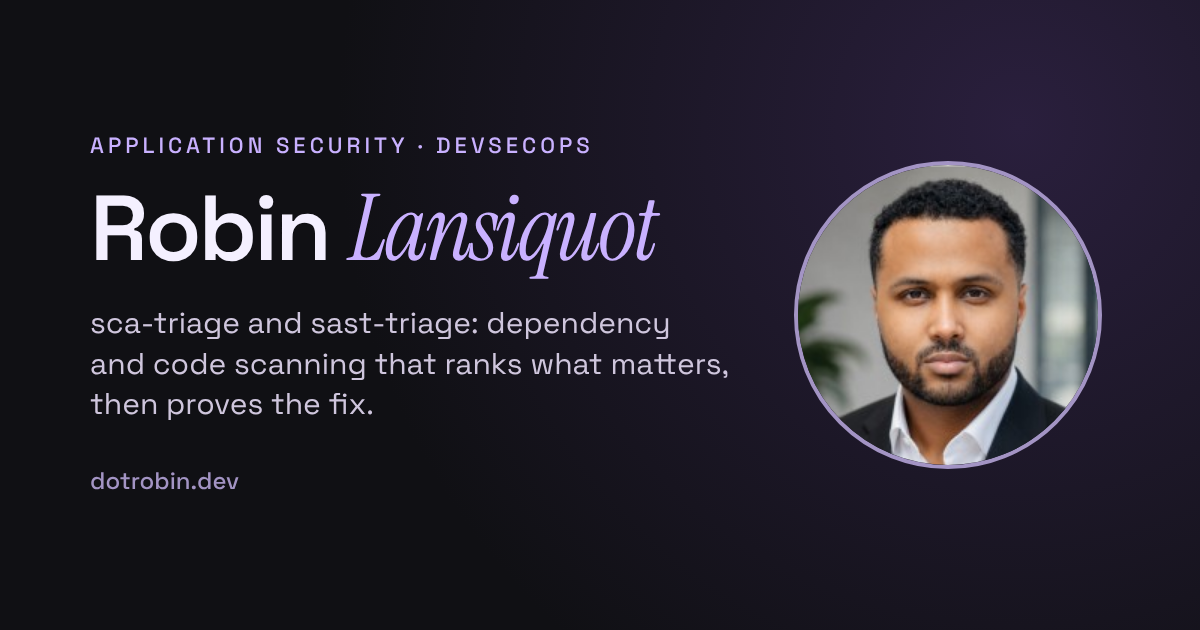
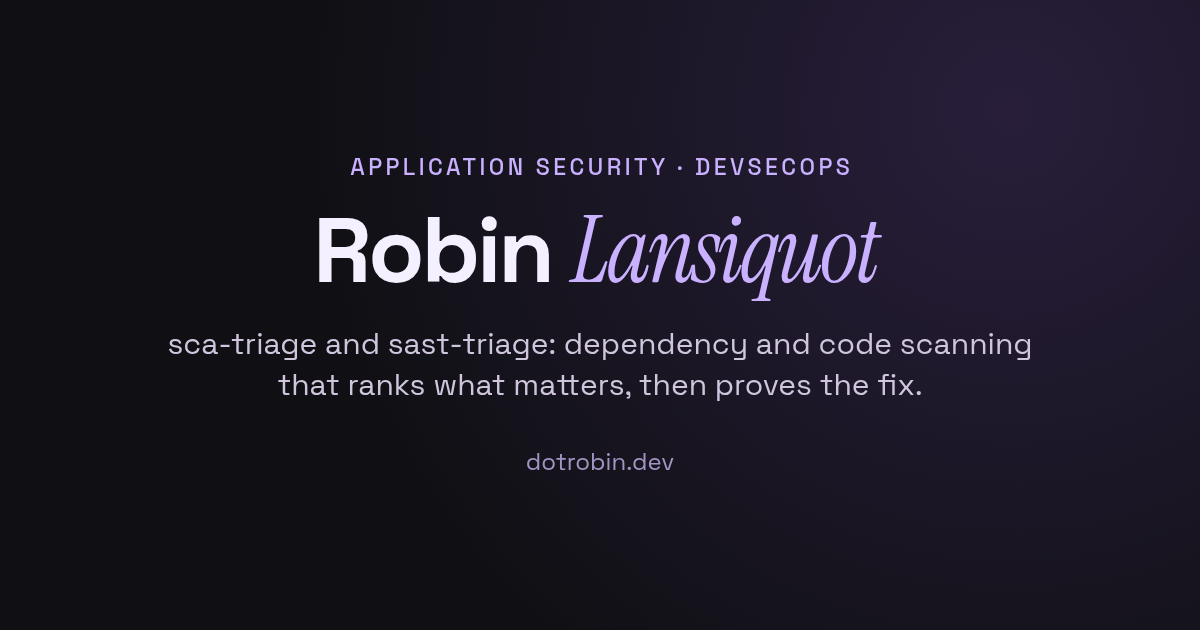
site: remove the portrait and center the homepage hero [W-dotrobin-dev-9] (#22)
Robin's request: remove his photo and center the homepage intro. Removes the portrait image, its CSS and robin-portrait.webp; centers the hero at every width; re-renders og-image.png without the portrait. QA PASS (thr_zs5zvjhs29) at 89bb860; tree equals QA's trial merge with main.

diff --git a/site/index.html b/site/index.html
@@ -1,1 +1,1 @@
-<!doctype html><html lang="en"><head><meta charset="utf-8"><meta http-equiv="Content-Security-Policy" content="default-src 'self'; script-src 'self'; style-src 'self'; img-src 'self'; font-src 'self'; connect-src 'self'; object-src 'none'; base-uri 'self'; form-action 'none'; upgrade-insecure-requests"><link rel="canonical" href="https://dotrobin.dev/"><meta name="viewport" content="width=device-width,initial-scale=1"><meta name="description" content="Robin Lansiquot, application security and DevSecOps engineer. SCA and SAST triage tools that run in CI/CD, plus hands-on security lab writeups."><meta name="theme-color" content="#101014"><link rel="icon" href="/favicon.ico?v=snowflake-1" sizes="any"><link rel="icon" type="image/svg+xml" href="/favicon.svg?v=snowflake-1"><link rel="preload" href="fonts/space-grotesk-variable.woff2" as="font" type="font/woff2" crossorigin><link rel="preload" href="fonts/instrument-serif-italic.woff2" as="font" type="font/woff2" crossorigin><title>Robin Lansiquot · Application Security &amp; DevSecOps · dotrobin</title><meta property="og:type" content="website"><meta property="og:site_name" content="dotrobin.dev"><meta property="og:title" content="Robin Lansiquot · Application Security &amp; DevSecOps"><meta property="og:description" content="Robin Lansiquot, application security and DevSecOps engineer. SCA and SAST triage tools that run in CI/CD, plus hands-on security lab writeups."><meta property="og:url" content="https://dotrobin.dev/"><meta property="og:image" content="https://dotrobin.dev/og-image.png"><meta property="og:image:width" content="1200"><meta property="og:image:height" content="630"><meta property="og:image:alt" content="Robin Lansiquot, application security portfolio"><meta name="twitter:card" content="summary_large_image"><link rel="stylesheet" href="portfolio.css?v=intro-order-1"><link rel="stylesheet" href="cipher-silk.css?v=nav-1"><script src="cipher-silk.js?v=motion-opt-in-1" defer></script><script src="section-order.js?v=1" defer></script><link rel="stylesheet" href="collection.css?v=design-3"><link rel="stylesheet" href="contact.css?v=1"><script src="contact.js?v=2" defer></script></head><body class="homepage"><a class="skip" href="#main">Skip to content</a><header class="top top-with-network"><a class="brand" href="index.html">dotrobin<span>_</span></a><figure class="cipher-silk" aria-label="Abstract interwoven ribbon artwork"><div class="silk-stage"><canvas id="silk-canvas" role="img" aria-label="Interwoven luminous ribbons with slowly transforming geometric glyphs. Abstract artwork."></canvas><svg class="silk-fallback" viewBox="0 0 1000 100" preserveAspectRatio="none" role="img" aria-label="Interwoven violet and amber ribbons"><defs><linearGradient id="silk-gradient"><stop stop-color="#baa0ff" stop-opacity=".1"/><stop offset=".5" stop-color="#d4b7ff"/><stop offset="1" stop-color="#baa0ff" stop-opacity=".1"/></linearGradient></defs><g fill="none" stroke="url(#silk-gradient)" stroke-width=".7"><path d="M0 42.8 C120 42.8 120 2.8 250 17.8 S370 77.8 500 42.8 S630 2.8 750 22.8 S880 62.8 1000 42.8"/><path d="M0 57.2 C120 57.2 120 92.2 250 77.2 S370 17.2 500 57.2 S630 92.2 750 77.2 S880 37.2 1000 57.2"/><path d="M0 44.6 C120 44.6 120 4.6 250 19.6 S370 79.6 500 44.6 S630 4.6 750 24.6 S880 64.6 1000 44.6"/><path d="M0 55.4 C120 55.4 120 90.4 250 75.4 S370 15.4 500 55.4 S630 90.4 750 75.4 S880 35.4 1000 55.4"/><path d="M0 46.4 C120 46.4 120 6.4 250 21.4 S370 81.4 500 46.4 S630 6.4 750 26.4 S880 66.4 1000 46.4"/><path d="M0 53.6 C120 53.6 120 88.6 250 73.6 S370 13.6 500 53.6 S630 88.6 750 73.6 S880 33.6 1000 53.6"/><path d="M0 48.2 C120 48.2 120 8.2 250 23.2 S370 83.2 500 48.2 S630 8.2 750 28.2 S880 68.2 1000 48.2"/><path d="M0 51.8 C120 51.8 120 86.8 250 71.8 S370 11.8 500 51.8 S630 86.8 750 71.8 S880 31.8 1000 51.8"/><path d="M0 50.0 C120 50.0 120 10.0 250 25.0 S370 85.0 500 50.0 S630 10.0 750 30.0 S880 70.0 1000 50.0"/><path d="M0 50.0 C120 50.0 120 85.0 250 70.0 S370 10.0 500 50.0 S630 85.0 750 70.0 S880 30.0 1000 50.0"/><path d="M0 51.8 C120 51.8 120 11.8 250 26.8 S370 86.8 500 51.8 S630 11.8 750 31.8 S880 71.8 1000 51.8"/><path d="M0 48.2 C120 48.2 120 83.2 250 68.2 S370 8.2 500 48.2 S630 83.2 750 68.2 S880 28.2 1000 48.2"/><path d="M0 53.6 C120 53.6 120 13.6 250 28.6 S370 88.6 500 53.6 S630 13.6 750 33.6 S880 73.6 1000 53.6"/><path d="M0 46.4 C120 46.4 120 81.4 250 66.4 S370 6.4 500 46.4 S630 81.4 750 66.4 S880 26.4 1000 46.4"/><path d="M0 55.4 C120 55.4 120 15.4 250 30.4 S370 90.4 500 55.4 S630 15.4 750 35.4 S880 75.4 1000 55.4"/><path d="M0 44.6 C120 44.6 120 79.6 250 64.6 S370 4.6 500 44.6 S630 79.6 750 64.6 S880 24.6 1000 44.6"/><path d="M0 57.2 C120 57.2 120 17.2 250 32.2 S370 92.2 500 57.2 S630 17.2 750 37.2 S880 77.2 1000 57.2"/><path d="M0 42.8 C120 42.8 120 77.8 250 62.8 S370 2.8 500 42.8 S630 77.8 750 62.8 S880 22.8 1000 42.8"/></g><path d="M0 50 C150 50 160 15 300 36 S430 80 560 52 S740 20 850 45 S950 50 1000 50" fill="none" stroke="#dfa87488" stroke-width="1"/></svg></div><button id="silk-toggle" class="silk-toggle" type="button" aria-label="Pause animation" title="Pause animation" hidden>Ⅱ</button></figure><nav class="site-nav" aria-label="Main"><a href="index.html#projects">Projects</a><a href="index.html#writeups">Writeups</a><a href="Robin_Lansiquot_Resume.pdf" target="_blank" rel="noopener">Résumé</a><a href="#contact">Contact</a></nav></header><div class="shell"><main id="main" tabindex="-1"><div class="content "><header class="profile-intro"><div class="eyebrow">APPLICATION SECURITY · DEVSECOPS</div><h1>Robin <em class="name-accent">Lansiquot</em></h1><div class="profile-contact"><div class="k">GET IN TOUCH</div><a href="mailto:lansiquo@gmail.com"><svg viewBox="0 0 24 24" fill="none" stroke="currentColor" stroke-width="1.7" aria-hidden="true"><rect x="3" y="5" width="18" height="14" rx="2"/><path d="m3 7 9 6 9-6"/></svg><span>Email</span><i aria-hidden="true">↗</i></a><a href="https://www.linkedin.com/in/robin-lansiquot/" target="_blank" rel="noopener"><svg viewBox="0 0 24 24" fill="currentColor" aria-hidden="true"><path d="M4.98 3.5a2.5 2.5 0 1 1 0 5 2.5 2.5 0 0 1 0-5ZM3 9.5h4V21H3V9.5Zm7 0h3.8v1.6h.1c.5-1 1.8-2 3.8-2 4 0 4.8 2.6 4.8 6V21h-4v-5.1c0-1.2 0-2.8-1.7-2.8s-2 1.3-2 2.7V21h-4V9.5Z"/></svg><span>LinkedIn</span><i aria-hidden="true">↗</i></a><a href="Robin_Lansiquot_Resume.pdf" target="_blank" rel="noopener"><svg viewBox="0 0 24 24" fill="none" stroke="currentColor" stroke-width="1.7" aria-hidden="true"><path d="M14 3H6a1 1 0 0 0-1 1v16a1 1 0 0 0 1 1h12a1 1 0 0 0 1-1V8Z"/><path d="M14 3v5h5M9 13h6M9 17h6"/></svg><span>Résumé</span><i aria-hidden="true">↗</i></a><img class="profile-portrait" src="robin-portrait.webp" width="152" height="152" alt="Portrait of Robin Lansiquot"></div><p class="intro">I’m a security engineer. I’ve spent my career in financial services, securing the software banks run on, and helped roll out dependency scanning across 60,000+ applications. I focus on two questions: which vulnerabilities can an attacker reach, and what’s the fastest safe fix?</p><ul class="credentials cert-pills" aria-label="Certifications"><li class="cert-pill">eJPT certified</li><li class="cert-pill cert-pill-progress">PNPT · In progress</li></ul></header><section class="collection" id="projects" aria-labelledby="projects-title"><h2 id="projects-title">Projects</h2><div class="collection-grid"><article class="collection-card collection-featured"><a class="collection-card-main" href="sca-triage.html"><span class="collection-card-kind"><svg class="nav-icon" viewBox="0 0 24 24" fill="none" stroke="currentColor" stroke-width="1.5" stroke-linecap="round" stroke-linejoin="round" aria-hidden="true"><path d="M12 2 21 6v6c0 5-9 10-9 10S3 17 3 12V6Z"/><path d="m9 9-3 3 3 3m6-6 3 3-3 3m-2-7-2 9"/></svg>FEATURED PROJECT</span><h3>sca-triage</h3><p>Ranks npm vulnerabilities from import evidence, applies the proposed upgrades, and records the before-and-after scan and tests.</p><p class="project-stack-summary"><strong>Stack:</strong> JavaScript · Node.js · npm · GitHub Actions · CycloneDX</p></a><div class="collection-card-actions"><span class="collection-status">Version 1.2.4</span><a class="collection-card-demo" href="https://www.npmjs.com/package/sca-triage" target="_blank" rel="noopener" aria-label="sca-triage on npm (opens in a new tab)">On npm: npx sca-triage</a></div></article><article class="collection-card"><a class="collection-card-main" href="sast-triage.html"><span class="collection-card-kind"><svg class="nav-icon" viewBox="0 0 24 24" fill="none" stroke="currentColor" stroke-width="1.5" stroke-linecap="round" stroke-linejoin="round" aria-hidden="true"><path d="M12 2 21 6v6c0 5-9 10-9 10S3 17 3 12V6Z"/><path d="m9 9-3 3 3 3m6-6 3 3-3 3m-2-7-2 9"/></svg>PROJECT</span><h3>sast-triage</h3><p>Labels each Semgrep finding new or pre-existing, ranks it P1–P3, and fails the check only on new P1s.</p><p class="project-stack-summary"><strong>Stack:</strong> Python · Semgrep · GitHub Actions · FastAPI · GitHub API · pytest</p></a><div class="collection-card-actions"><span class="collection-status">Version 2.1</span></div></article></div></section><section class="collection" id="writeups" aria-labelledby="writeups-title"><h2 id="writeups-title">Lab writeups</h2><div class="collection-grid"><a class="collection-card" href="blackpearl.html"><span class="collection-card-kind"><svg class="nav-icon" viewBox="0 0 24 24" fill="none" stroke="currentColor" stroke-width="1.5" stroke-linecap="round" stroke-linejoin="round" aria-hidden="true"><path d="M7 10V7a5 5 0 0 1 10 0v3c2 3 3 6 1 9H6c-2-3-1-6 1-9Z"/><ellipse cx="12" cy="14" rx="4" ry="5"/><path d="m10 7 2 2 2-2-2-1Zm-4 12-3 3h7l-1-3m9 0 3 3h-7l1-3M7 10l-4 6m14-6 4 6"/><circle cx="10" cy="5" r=".4"/><circle cx="14" cy="5" r=".4"/></svg>LAB WRITEUP</span><h3>Blackpearl</h3><p>Outdated web CMS and a misconfigured SUID binary on a Linux web server</p><ul class="lab-tags" aria-label="Topics"><li>Linux</li><li>Outdated CMS</li><li>SUID</li></ul></a><a class="collection-card" href="academy.html"><span class="collection-card-kind"><svg class="nav-icon" viewBox="0 0 24 24" fill="none" stroke="currentColor" stroke-width="1.5" stroke-linecap="round" stroke-linejoin="round" aria-hidden="true"><path d="M7 10V7a5 5 0 0 1 10 0v3c2 3 3 6 1 9H6c-2-3-1-6 1-9Z"/><ellipse cx="12" cy="14" rx="4" ry="5"/><path d="m10 7 2 2 2-2-2-1Zm-4 12-3 3h7l-1-3m9 0 3 3h-7l1-3M7 10l-4 6m14-6 4 6"/><circle cx="10" cy="5" r=".4"/><circle cx="14" cy="5" r=".4"/></svg>LAB WRITEUP</span><h3>Academy</h3><p>Exposed credentials, an unrestricted file upload and a root-run backup script</p><ul class="lab-tags" aria-label="Topics"><li>Linux</li><li>File upload</li><li>Cron job</li></ul></a><a class="collection-card" href="dev.html"><span class="collection-card-kind"><svg class="nav-icon" viewBox="0 0 24 24" fill="none" stroke="currentColor" stroke-width="1.5" stroke-linecap="round" stroke-linejoin="round" aria-hidden="true"><path d="M7 10V7a5 5 0 0 1 10 0v3c2 3 3 6 1 9H6c-2-3-1-6 1-9Z"/><ellipse cx="12" cy="14" rx="4" ry="5"/><path d="m10 7 2 2 2-2-2-1Zm-4 12-3 3h7l-1-3m9 0 3 3h-7l1-3M7 10l-4 6m14-6 4 6"/><circle cx="10" cy="5" r=".4"/><circle cx="14" cy="5" r=".4"/></svg>LAB WRITEUP</span><h3>Dev</h3><p>Open NFS share and an overly permissive sudo rule</p><ul class="lab-tags" aria-label="Topics"><li>Linux</li><li>NFS</li><li>Sudo</li></ul></a><a class="collection-card" href="blue.html"><span class="collection-card-kind"><svg class="nav-icon" viewBox="0 0 24 24" fill="none" stroke="currentColor" stroke-width="1.5" stroke-linecap="round" stroke-linejoin="round" aria-hidden="true"><rect x="2" y="2" width="8" height="8" rx=".7"/><rect x="14" y="2" width="8" height="8" rx=".7"/><rect x="2" y="14" width="8" height="8" rx=".7"/><rect x="14" y="14" width="8" height="8" rx=".7"/></svg>LAB WRITEUP</span><h3>Blue</h3><p>Unpatched SMBv1 on Windows 7, checked against MS17-010</p><ul class="lab-tags" aria-label="Topics"><li>Windows</li><li>SMB</li><li>MS17-010</li></ul></a><a class="collection-card" href="butler.html"><span class="collection-card-kind"><svg class="nav-icon" viewBox="0 0 24 24" fill="none" stroke="currentColor" stroke-width="1.5" stroke-linecap="round" stroke-linejoin="round" aria-hidden="true"><rect x="2" y="2" width="8" height="8" rx=".7"/><rect x="14" y="2" width="8" height="8" rx=".7"/><rect x="2" y="14" width="8" height="8" rx=".7"/><rect x="14" y="14" width="8" height="8" rx=".7"/></svg>LAB WRITEUP</span><h3>Butler</h3><p>Exposed Jenkins server and an unquoted service path on Windows 10</p><ul class="lab-tags" aria-label="Topics"><li>Windows</li><li>Jenkins</li><li>Service config</li></ul></a></div></section></div></main></div><footer class="status"><span>ROBIN LANSIQUOT &nbsp; / &nbsp; APPLICATION SECURITY</span><nav class="footer-links" id="contact" aria-label="Contact"><a href="mailto:lansiquo@gmail.com">Email</a><a href="https://www.linkedin.com/in/robin-lansiquot/" target="_blank" rel="noopener">LinkedIn</a><a href="Robin_Lansiquot_Resume.pdf" target="_blank" rel="noopener">Résumé</a></nav></footer></body></html>
+<!doctype html><html lang="en"><head><meta charset="utf-8"><meta http-equiv="Content-Security-Policy" content="default-src 'self'; script-src 'self'; style-src 'self'; img-src 'self'; font-src 'self'; connect-src 'self'; object-src 'none'; base-uri 'self'; form-action 'none'; upgrade-insecure-requests"><link rel="canonical" href="https://dotrobin.dev/"><meta name="viewport" content="width=device-width,initial-scale=1"><meta name="description" content="Robin Lansiquot, application security and DevSecOps engineer. SCA and SAST triage tools that run in CI/CD, plus hands-on security lab writeups."><meta name="theme-color" content="#101014"><link rel="icon" href="/favicon.ico?v=snowflake-1" sizes="any"><link rel="icon" type="image/svg+xml" href="/favicon.svg?v=snowflake-1"><link rel="preload" href="fonts/space-grotesk-variable.woff2" as="font" type="font/woff2" crossorigin><link rel="preload" href="fonts/instrument-serif-italic.woff2" as="font" type="font/woff2" crossorigin><title>Robin Lansiquot · Application Security &amp; DevSecOps · dotrobin</title><meta property="og:type" content="website"><meta property="og:site_name" content="dotrobin.dev"><meta property="og:title" content="Robin Lansiquot · Application Security &amp; DevSecOps"><meta property="og:description" content="Robin Lansiquot, application security and DevSecOps engineer. SCA and SAST triage tools that run in CI/CD, plus hands-on security lab writeups."><meta property="og:url" content="https://dotrobin.dev/"><meta property="og:image" content="https://dotrobin.dev/og-image.png"><meta property="og:image:width" content="1200"><meta property="og:image:height" content="630"><meta property="og:image:alt" content="Robin Lansiquot, application security portfolio"><meta name="twitter:card" content="summary_large_image"><link rel="stylesheet" href="portfolio.css?v=hero-center-1"><link rel="stylesheet" href="cipher-silk.css?v=nav-1"><script src="cipher-silk.js?v=motion-opt-in-1" defer></script><script src="section-order.js?v=1" defer></script><link rel="stylesheet" href="collection.css?v=design-4"><link rel="stylesheet" href="contact.css?v=1"><script src="contact.js?v=2" defer></script></head><body class="homepage"><a class="skip" href="#main">Skip to content</a><header class="top top-with-network"><a class="brand" href="index.html">dotrobin<span>_</span></a><figure class="cipher-silk" aria-label="Abstract interwoven ribbon artwork"><div class="silk-stage"><canvas id="silk-canvas" role="img" aria-label="Interwoven luminous ribbons with slowly transforming geometric glyphs. Abstract artwork."></canvas><svg class="silk-fallback" viewBox="0 0 1000 100" preserveAspectRatio="none" role="img" aria-label="Interwoven violet and amber ribbons"><defs><linearGradient id="silk-gradient"><stop stop-color="#baa0ff" stop-opacity=".1"/><stop offset=".5" stop-color="#d4b7ff"/><stop offset="1" stop-color="#baa0ff" stop-opacity=".1"/></linearGradient></defs><g fill="none" stroke="url(#silk-gradient)" stroke-width=".7"><path d="M0 42.8 C120 42.8 120 2.8 250 17.8 S370 77.8 500 42.8 S630 2.8 750 22.8 S880 62.8 1000 42.8"/><path d="M0 57.2 C120 57.2 120 92.2 250 77.2 S370 17.2 500 57.2 S630 92.2 750 77.2 S880 37.2 1000 57.2"/><path d="M0 44.6 C120 44.6 120 4.6 250 19.6 S370 79.6 500 44.6 S630 4.6 750 24.6 S880 64.6 1000 44.6"/><path d="M0 55.4 C120 55.4 120 90.4 250 75.4 S370 15.4 500 55.4 S630 90.4 750 75.4 S880 35.4 1000 55.4"/><path d="M0 46.4 C120 46.4 120 6.4 250 21.4 S370 81.4 500 46.4 S630 6.4 750 26.4 S880 66.4 1000 46.4"/><path d="M0 53.6 C120 53.6 120 88.6 250 73.6 S370 13.6 500 53.6 S630 88.6 750 73.6 S880 33.6 1000 53.6"/><path d="M0 48.2 C120 48.2 120 8.2 250 23.2 S370 83.2 500 48.2 S630 8.2 750 28.2 S880 68.2 1000 48.2"/><path d="M0 51.8 C120 51.8 120 86.8 250 71.8 S370 11.8 500 51.8 S630 86.8 750 71.8 S880 31.8 1000 51.8"/><path d="M0 50.0 C120 50.0 120 10.0 250 25.0 S370 85.0 500 50.0 S630 10.0 750 30.0 S880 70.0 1000 50.0"/><path d="M0 50.0 C120 50.0 120 85.0 250 70.0 S370 10.0 500 50.0 S630 85.0 750 70.0 S880 30.0 1000 50.0"/><path d="M0 51.8 C120 51.8 120 11.8 250 26.8 S370 86.8 500 51.8 S630 11.8 750 31.8 S880 71.8 1000 51.8"/><path d="M0 48.2 C120 48.2 120 83.2 250 68.2 S370 8.2 500 48.2 S630 83.2 750 68.2 S880 28.2 1000 48.2"/><path d="M0 53.6 C120 53.6 120 13.6 250 28.6 S370 88.6 500 53.6 S630 13.6 750 33.6 S880 73.6 1000 53.6"/><path d="M0 46.4 C120 46.4 120 81.4 250 66.4 S370 6.4 500 46.4 S630 81.4 750 66.4 S880 26.4 1000 46.4"/><path d="M0 55.4 C120 55.4 120 15.4 250 30.4 S370 90.4 500 55.4 S630 15.4 750 35.4 S880 75.4 1000 55.4"/><path d="M0 44.6 C120 44.6 120 79.6 250 64.6 S370 4.6 500 44.6 S630 79.6 750 64.6 S880 24.6 1000 44.6"/><path d="M0 57.2 C120 57.2 120 17.2 250 32.2 S370 92.2 500 57.2 S630 17.2 750 37.2 S880 77.2 1000 57.2"/><path d="M0 42.8 C120 42.8 120 77.8 250 62.8 S370 2.8 500 42.8 S630 77.8 750 62.8 S880 22.8 1000 42.8"/></g><path d="M0 50 C150 50 160 15 300 36 S430 80 560 52 S740 20 850 45 S950 50 1000 50" fill="none" stroke="#dfa87488" stroke-width="1"/></svg></div><button id="silk-toggle" class="silk-toggle" type="button" aria-label="Pause animation" title="Pause animation" hidden>Ⅱ</button></figure><nav class="site-nav" aria-label="Main"><a href="index.html#projects">Projects</a><a href="index.html#writeups">Writeups</a><a href="Robin_Lansiquot_Resume.pdf" target="_blank" rel="noopener">Résumé</a><a href="#contact">Contact</a></nav></header><div class="shell"><main id="main" tabindex="-1"><div class="content "><header class="profile-intro"><div class="eyebrow">APPLICATION SECURITY · DEVSECOPS</div><h1>Robin <em class="name-accent">Lansiquot</em></h1><p class="intro">I’m a security engineer. I’ve spent my career in financial services, securing the software banks run on, and helped roll out dependency scanning across 60,000+ applications. I focus on two questions: which vulnerabilities can an attacker reach, and what’s the fastest safe fix?</p><ul class="credentials cert-pills" aria-label="Certifications"><li class="cert-pill">eJPT certified</li><li class="cert-pill cert-pill-progress">PNPT · In progress</li></ul><div class="profile-contact"><div class="k">GET IN TOUCH</div><a href="mailto:lansiquo@gmail.com"><svg viewBox="0 0 24 24" fill="none" stroke="currentColor" stroke-width="1.7" aria-hidden="true"><rect x="3" y="5" width="18" height="14" rx="2"/><path d="m3 7 9 6 9-6"/></svg><span>Email</span><i aria-hidden="true">↗</i></a><a href="https://www.linkedin.com/in/robin-lansiquot/" target="_blank" rel="noopener"><svg viewBox="0 0 24 24" fill="currentColor" aria-hidden="true"><path d="M4.98 3.5a2.5 2.5 0 1 1 0 5 2.5 2.5 0 0 1 0-5ZM3 9.5h4V21H3V9.5Zm7 0h3.8v1.6h.1c.5-1 1.8-2 3.8-2 4 0 4.8 2.6 4.8 6V21h-4v-5.1c0-1.2 0-2.8-1.7-2.8s-2 1.3-2 2.7V21h-4V9.5Z"/></svg><span>LinkedIn</span><i aria-hidden="true">↗</i></a><a href="Robin_Lansiquot_Resume.pdf" target="_blank" rel="noopener"><svg viewBox="0 0 24 24" fill="none" stroke="currentColor" stroke-width="1.7" aria-hidden="true"><path d="M14 3H6a1 1 0 0 0-1 1v16a1 1 0 0 0 1 1h12a1 1 0 0 0 1-1V8Z"/><path d="M14 3v5h5M9 13h6M9 17h6"/></svg><span>Résumé</span><i aria-hidden="true">↗</i></a></div></header><section class="collection" id="projects" aria-labelledby="projects-title"><h2 id="projects-title">Projects</h2><div class="collection-grid"><article class="collection-card collection-featured"><a class="collection-card-main" href="sca-triage.html"><span class="collection-card-kind"><svg class="nav-icon" viewBox="0 0 24 24" fill="none" stroke="currentColor" stroke-width="1.5" stroke-linecap="round" stroke-linejoin="round" aria-hidden="true"><path d="M12 2 21 6v6c0 5-9 10-9 10S3 17 3 12V6Z"/><path d="m9 9-3 3 3 3m6-6 3 3-3 3m-2-7-2 9"/></svg>FEATURED PROJECT</span><h3>sca-triage</h3><p>Ranks npm vulnerabilities from import evidence, applies the proposed upgrades, and records the before-and-after scan and tests.</p><p class="project-stack-summary"><strong>Stack:</strong> JavaScript · Node.js · npm · GitHub Actions · CycloneDX</p></a><div class="collection-card-actions"><span class="collection-status">Version 1.2.4</span><a class="collection-card-demo" href="https://www.npmjs.com/package/sca-triage" target="_blank" rel="noopener" aria-label="sca-triage on npm (opens in a new tab)">On npm: npx sca-triage</a></div></article><article class="collection-card"><a class="collection-card-main" href="sast-triage.html"><span class="collection-card-kind"><svg class="nav-icon" viewBox="0 0 24 24" fill="none" stroke="currentColor" stroke-width="1.5" stroke-linecap="round" stroke-linejoin="round" aria-hidden="true"><path d="M12 2 21 6v6c0 5-9 10-9 10S3 17 3 12V6Z"/><path d="m9 9-3 3 3 3m6-6 3 3-3 3m-2-7-2 9"/></svg>PROJECT</span><h3>sast-triage</h3><p>Labels each Semgrep finding new or pre-existing, ranks it P1–P3, and fails the check only on new P1s.</p><p class="project-stack-summary"><strong>Stack:</strong> Python · Semgrep · GitHub Actions · FastAPI · GitHub API · pytest</p></a><div class="collection-card-actions"><span class="collection-status">Version 2.1</span></div></article></div></section><section class="collection" id="writeups" aria-labelledby="writeups-title"><h2 id="writeups-title">Lab writeups</h2><div class="collection-grid"><a class="collection-card" href="blackpearl.html"><span class="collection-card-kind"><svg class="nav-icon" viewBox="0 0 24 24" fill="none" stroke="currentColor" stroke-width="1.5" stroke-linecap="round" stroke-linejoin="round" aria-hidden="true"><path d="M7 10V7a5 5 0 0 1 10 0v3c2 3 3 6 1 9H6c-2-3-1-6 1-9Z"/><ellipse cx="12" cy="14" rx="4" ry="5"/><path d="m10 7 2 2 2-2-2-1Zm-4 12-3 3h7l-1-3m9 0 3 3h-7l1-3M7 10l-4 6m14-6 4 6"/><circle cx="10" cy="5" r=".4"/><circle cx="14" cy="5" r=".4"/></svg>LAB WRITEUP</span><h3>Blackpearl</h3><p>Outdated web CMS and a misconfigured SUID binary on a Linux web server</p><ul class="lab-tags" aria-label="Topics"><li>Linux</li><li>Outdated CMS</li><li>SUID</li></ul></a><a class="collection-card" href="academy.html"><span class="collection-card-kind"><svg class="nav-icon" viewBox="0 0 24 24" fill="none" stroke="currentColor" stroke-width="1.5" stroke-linecap="round" stroke-linejoin="round" aria-hidden="true"><path d="M7 10V7a5 5 0 0 1 10 0v3c2 3 3 6 1 9H6c-2-3-1-6 1-9Z"/><ellipse cx="12" cy="14" rx="4" ry="5"/><path d="m10 7 2 2 2-2-2-1Zm-4 12-3 3h7l-1-3m9 0 3 3h-7l1-3M7 10l-4 6m14-6 4 6"/><circle cx="10" cy="5" r=".4"/><circle cx="14" cy="5" r=".4"/></svg>LAB WRITEUP</span><h3>Academy</h3><p>Exposed credentials, an unrestricted file upload and a root-run backup script</p><ul class="lab-tags" aria-label="Topics"><li>Linux</li><li>File upload</li><li>Cron job</li></ul></a><a class="collection-card" href="dev.html"><span class="collection-card-kind"><svg class="nav-icon" viewBox="0 0 24 24" fill="none" stroke="currentColor" stroke-width="1.5" stroke-linecap="round" stroke-linejoin="round" aria-hidden="true"><path d="M7 10V7a5 5 0 0 1 10 0v3c2 3 3 6 1 9H6c-2-3-1-6 1-9Z"/><ellipse cx="12" cy="14" rx="4" ry="5"/><path d="m10 7 2 2 2-2-2-1Zm-4 12-3 3h7l-1-3m9 0 3 3h-7l1-3M7 10l-4 6m14-6 4 6"/><circle cx="10" cy="5" r=".4"/><circle cx="14" cy="5" r=".4"/></svg>LAB WRITEUP</span><h3>Dev</h3><p>Open NFS share and an overly permissive sudo rule</p><ul class="lab-tags" aria-label="Topics"><li>Linux</li><li>NFS</li><li>Sudo</li></ul></a><a class="collection-card" href="blue.html"><span class="collection-card-kind"><svg class="nav-icon" viewBox="0 0 24 24" fill="none" stroke="currentColor" stroke-width="1.5" stroke-linecap="round" stroke-linejoin="round" aria-hidden="true"><rect x="2" y="2" width="8" height="8" rx=".7"/><rect x="14" y="2" width="8" height="8" rx=".7"/><rect x="2" y="14" width="8" height="8" rx=".7"/><rect x="14" y="14" width="8" height="8" rx=".7"/></svg>LAB WRITEUP</span><h3>Blue</h3><p>Unpatched SMBv1 on Windows 7, checked against MS17-010</p><ul class="lab-tags" aria-label="Topics"><li>Windows</li><li>SMB</li><li>MS17-010</li></ul></a><a class="collection-card" href="butler.html"><span class="collection-card-kind"><svg class="nav-icon" viewBox="0 0 24 24" fill="none" stroke="currentColor" stroke-width="1.5" stroke-linecap="round" stroke-linejoin="round" aria-hidden="true"><rect x="2" y="2" width="8" height="8" rx=".7"/><rect x="14" y="2" width="8" height="8" rx=".7"/><rect x="2" y="14" width="8" height="8" rx=".7"/><rect x="14" y="14" width="8" height="8" rx=".7"/></svg>LAB WRITEUP</span><h3>Butler</h3><p>Exposed Jenkins server and an unquoted service path on Windows 10</p><ul class="lab-tags" aria-label="Topics"><li>Windows</li><li>Jenkins</li><li>Service config</li></ul></a></div></section></div></main></div><footer class="status"><span>ROBIN LANSIQUOT &nbsp; / &nbsp; APPLICATION SECURITY</span><nav class="footer-links" id="contact" aria-label="Contact"><a href="mailto:lansiquo@gmail.com">Email</a><a href="https://www.linkedin.com/in/robin-lansiquot/" target="_blank" rel="noopener">LinkedIn</a><a href="Robin_Lansiquot_Resume.pdf" target="_blank" rel="noopener">Résumé</a></nav></footer></body></html>

diff --git a/site/portfolio.css b/site/portfolio.css
@@ -28,11 +28,8 @@ html{scroll-behavior:smooth}.content,.inspect,.project,.code{min-width:0}.shell{
 .article .process-list strong{color:var(--ink)}.article pre[aria-label="Local demo setup commands"]{background:#09090e;border:1px solid #796094;border-left:4px solid var(--accent);border-radius:8px;padding:24px;overflow-x:auto;white-space:pre;overflow-wrap:normal;color:#f1eaff;line-height:1.8}.article pre[aria-label="Local demo setup commands"]:focus-visible{outline:2px solid var(--accent);outline-offset:4px}
 @font-face{font-family:"Instrument Serif";src:url("fonts/instrument-serif-italic.woff2") format("woff2");font-style:italic;font-weight:400;font-display:swap}.homepage .profile-intro h1{font-weight:700}.homepage .profile-intro h1 .name-accent{font-family:"Instrument Serif",Georgia,serif;font-style:italic;font-weight:400;font-size:1.12em;letter-spacing:-.01em;color:var(--accent)}
 .footer-links{display:flex;gap:18px}.footer-links a{color:#d8c9f9}.footer-links a:hover{color:var(--ink)}
-.homepage .profile-intro{max-width:none;width:100%;display:grid;grid-template-columns:minmax(0,1fr) 240px;column-gap:44px;align-items:start}.homepage .profile-intro .eyebrow{grid-column:1;grid-row:1}.homepage .profile-intro h1{grid-column:1 / -1;grid-row:2;white-space:nowrap}.homepage .profile-intro .intro{grid-column:1;grid-row:3;max-width:600px;margin-bottom:0}.homepage .profile-intro .credentials{grid-column:1;grid-row:4;align-self:end}.homepage .profile-contact{grid-column:2;grid-row:1 / 5;align-self:start;justify-self:end;width:230px;position:static;padding:0}.homepage .profile-contact .k{margin:0 0 18px}.homepage .profile-contact a{display:flex;align-items:center;gap:11px;padding:14px 2px;font-size:16px;width:230px;color:var(--ink);border-bottom:1px solid var(--line)}.homepage .profile-contact a:last-child{border-bottom:0}.homepage .profile-contact svg{width:18px;height:18px;flex:none;color:var(--accent)}.homepage .profile-contact a i{margin-left:auto;font-style:normal;color:#777483}.homepage .profile-contact a:hover{color:var(--accent)}@media(max-width:1024px){.homepage .profile-intro{display:block}.homepage .profile-intro h1{white-space:normal}.homepage .profile-intro .intro{max-width:none}.homepage .profile-contact{margin-top:30px;width:100%;max-width:340px}.homepage .profile-contact a{width:100%}}
+/* Homepage introduction: one centered column at every width. The contact links sit in a row under the certifications and stack on phones. */
+.homepage .profile-intro{text-align:center}.homepage .profile-intro .eyebrow{justify-content:center}.homepage .profile-intro .eyebrow:after{content:'';display:block;width:20px;height:1px;background:var(--accent)}.homepage .profile-intro .intro{max-width:600px;margin-left:auto;margin-right:auto}.homepage .profile-intro .credentials{justify-content:center}.homepage .profile-contact{display:flex;flex-wrap:wrap;justify-content:center;gap:0 30px;margin-top:30px}.homepage .profile-contact .k{flex-basis:100%;margin:0 0 10px}.homepage .profile-contact a{display:flex;align-items:center;gap:11px;padding:14px 2px;font-size:16px;color:var(--ink)}.homepage .profile-contact svg{width:18px;height:18px;flex:none;color:var(--accent)}.homepage .profile-contact a i{font-style:normal;color:#777483}.homepage .profile-contact a:hover{color:var(--accent)}@media(max-width:480px){.homepage .profile-contact{flex-direction:column;align-items:center}.homepage .profile-contact .k{flex-basis:auto}}
 
 /* One header navigation on every page: four plain links, no menus, popovers or shortcuts. */
 .site-nav{display:flex;align-items:center;gap:4px;margin-left:auto;font-family:Arial,Helvetica,sans-serif}.site-nav a{display:inline-flex;align-items:center;min-height:44px;padding:0 12px;border-radius:6px;color:var(--muted);font-size:14px}.site-nav a:hover{color:var(--ink);background:#211d29}.site-nav a[aria-current]{color:var(--ink);text-decoration:underline;text-decoration-color:var(--accent);text-decoration-thickness:2px;text-underline-offset:8px}@media(max-width:800px){.top{padding-left:24px;padding-right:24px}}@media(max-width:650px){.top{height:auto;flex-wrap:wrap;gap:0;padding-top:10px}.site-nav{width:100%;margin:4px 0 0;justify-content:space-between;border-top:1px solid var(--line)}.site-nav a{padding:0 8px}}
-.homepage .profile-contact .profile-portrait{display:block;width:min(152px,100%);height:auto;aspect-ratio:1;margin:15px auto;border:2px solid #a394c4;border-radius:50%;object-fit:cover;object-position:center}
-@media(min-width:1025px){.homepage .profile-contact .profile-portrait{margin-top:33px;margin-bottom:-3px;margin-left:calc(50% - 76px - 14px);margin-right:0}}
-
-@media(max-width:1024px){.homepage .profile-intro{display:flex;flex-direction:column}.homepage .profile-intro>*,.homepage .profile-intro .credentials{align-self:stretch}.homepage .profile-intro>.profile-contact{order:1;margin-top:28px}}

diff --git a/site/collection.css b/site/collection.css
@@ -2,7 +2,6 @@
 .homepage .shell{display:block}.homepage .content{max-width:1160px;margin:0 auto;padding-top:36px}.homepage .profile-intro{margin-bottom:36px}.collection{border-top:1px solid var(--line);padding-top:26px;scroll-margin-top:24px}.collection-card:focus-visible{outline:2px solid var(--accent);outline-offset:4px}.collection-grid{display:grid;grid-template-columns:repeat(3,minmax(0,1fr));gap:16px}.collection-card{display:flex;flex-direction:column;min-width:0;gap:12px;padding:22px;border:1px solid var(--line);border-radius:8px;background:#17141d;text-decoration:none;color:var(--ink)}.collection-card[hidden]{display:none}.collection-card:hover{border-color:#a88bcb;background:#201a29}.collection-featured{grid-column:span 2;border-color:#81659e;background:#211a2a}.collection-card-kind{display:flex;align-items:center;gap:10px;color:var(--accent);font:10px/1.5 ui-monospace,monospace;letter-spacing:.5px}.collection-card-kind .nav-icon{width:25px;height:25px;flex:none}.collection-card h3{margin:0;font-size:22px;line-height:1.25;font-weight:500;overflow-wrap:anywhere}.collection-card p{margin:0;color:var(--muted);font-size:14px;line-height:1.7}.collection-status{align-self:flex-start;margin-top:auto;padding-top:7px;color:#c9bed7;font-size:12px}.collection-project-link{margin:10px 0 24px}.collection-project-link strong{font-size:17px}.path-context{font-size:12px!important;text-align:center;color:var(--muted)!important;margin:0 0 18px!important}.sca-results{border-collapse:collapse;width:100%;table-layout:fixed;font-size:14px;margin:20px 0}.sca-results caption{text-align:left;color:var(--muted);font-size:13px;margin-bottom:10px}.sca-results th,.sca-results td{text-align:left;padding:12px 10px;border:1px solid var(--line);overflow-wrap:anywhere}.sca-results thead{background:#282033}.sca-results tbody th{font-weight:500}.sca-results td{color:var(--muted)}@media(max-width:800px){.homepage .content{padding:26px 24px 40px}.homepage .profile-intro{margin-bottom:28px}.collection-grid{grid-template-columns:repeat(2,minmax(0,1fr))}.collection-featured{grid-column:span 2}.collection-card{padding:18px}.sca-results{font-size:12px}.sca-results td,.sca-results th{padding:9px 7px}}@media(max-width:520px){.collection-grid{grid-template-columns:minmax(0,1fr)}.collection-featured{grid-column:auto}.collection-card h3{font-size:21px}}
 .collection-featured{border-color:#9b7fc0;border-top:2px solid var(--accent);box-shadow:0 0 0 1px #baa0ff1f,0 10px 34px -12px #baa0ff59}.collection-featured:hover{box-shadow:0 0 0 1px #baa0ff40,0 14px 40px -12px #baa0ff80}.collection-featured h3{font-size:26px}
 .homepage .profile-intro .cert-pills{display:flex;flex-wrap:wrap;gap:8px;list-style:none;padding:0}.cert-pill{display:inline-flex;align-items:center;padding:5px 12px;border:1px solid #81659e;border-radius:999px;background:#1d1726;color:var(--ink);font:12px/1.4 ui-monospace,SFMono-Regular,Consolas,monospace;letter-spacing:.3px}.cert-pill-progress{border-style:dashed;border-color:#5f5470;background:none;color:var(--muted)}
-@media(min-width:1025px){.homepage .profile-intro{column-gap:36px}.homepage .profile-contact{border-left:1px solid var(--line);padding-left:28px;width:259px}}
 .lab-tags{display:flex;flex-wrap:wrap;gap:6px;list-style:none;margin:auto 0 0;padding:7px 0 0}.lab-tags li{padding:3px 9px;border:1px solid #41404c;border-radius:999px;color:#c9bed7;font:11px/1.5 ui-monospace,SFMono-Regular,Consolas,monospace}
 .collection+.collection{margin-top:48px}
 .collection-card-main{display:flex;flex-direction:column;gap:12px;min-width:0;flex:1;color:inherit;text-decoration:none}
